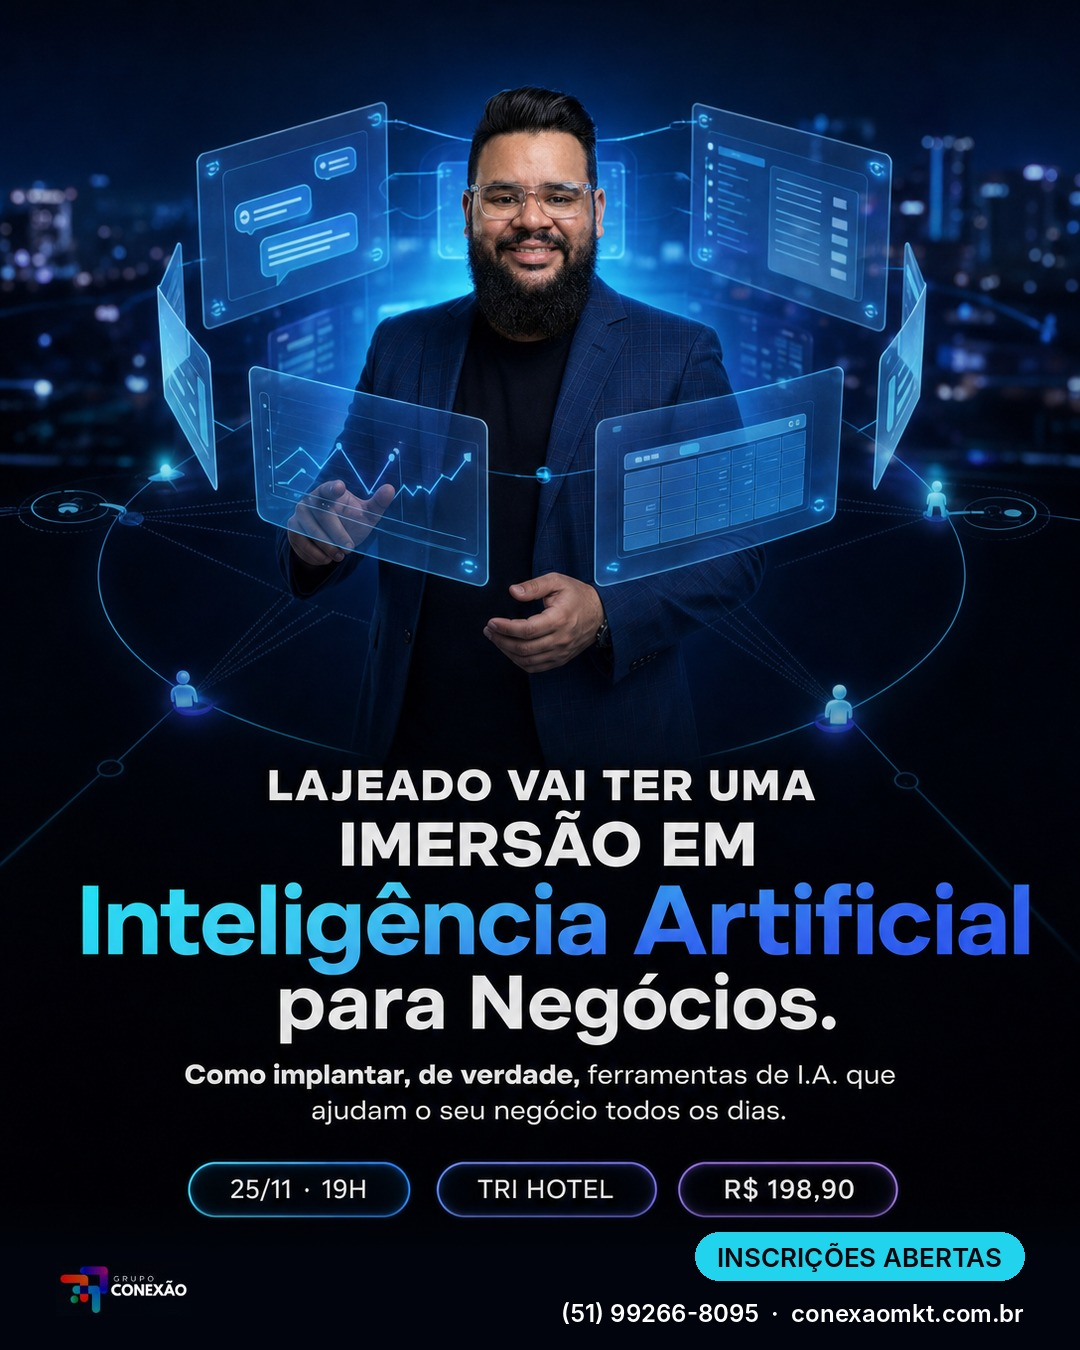
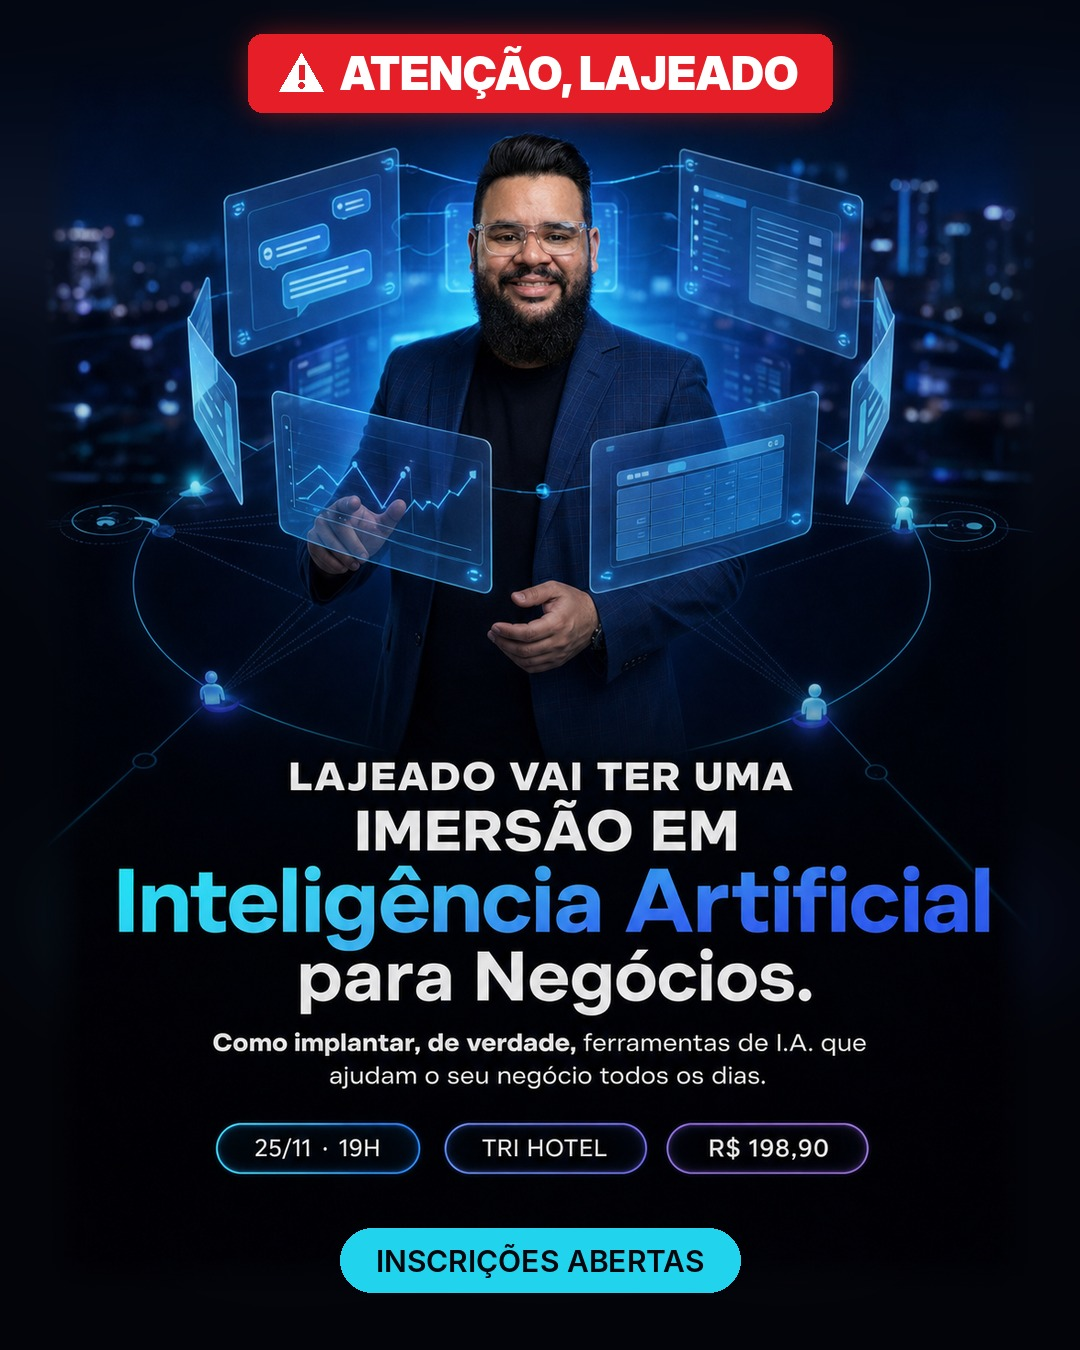
Arte Lajeado: margem de respiro, selo ATENÇÃO, LAJEADO e só INSCRIÇÕES ABERTAS no rodapé; funções respiro e selo_centro
Claude-Session: https://claude.ai/code/session_01VAnyZ4LfARjf93zJngDLkM

diff --git a/scripts/gerar_imagem.py b/scripts/gerar_imagem.py
@@ -129,6 +129,40 @@ def rodape(im, formato, destaque=""):
     return im.convert("RGB")
 
 
+def respiro(im, escala=0.93):
+    """Encolhe a arte e completa as bordas com o próprio fundo desfocado: dá margem de respiro
+    quando o GPT encosta o texto nas laterais."""
+    from PIL import Image, ImageFilter
+    import numpy as np
+    im = im.convert("RGB")
+    W, H = im.size
+    bg = im.resize((W, H)).filter(ImageFilter.GaussianBlur(50))
+    bg = Image.blend(bg, Image.new("RGB", (W, H), (5, 7, 13)), 0.55)
+    w, h = int(W * escala), int(H * escala)
+    peq = im.resize((w, h), Image.LANCZOS)
+    m = np.ones((h, w))
+    f = 40
+    r = np.linspace(0, 1, f)
+    m[:, :f] *= r[None, :]; m[:, -f:] *= r[::-1][None, :]; m[:f, :] *= r[:, None]; m[-f:, :] *= r[::-1][:, None]
+    bg.paste(peq, ((W - w) // 2, (H - h) // 2), Image.fromarray((m * 255).astype("uint8")))
+    return bg
+
+
+def selo_centro(im, texto="INSCRIÇÕES ABERTAS", margem=58):
+    """Rodapé mínimo: só uma pílula ciano centralizada, com margem de respiro da base."""
+    from PIL import ImageDraw, ImageFont
+    im = im.convert("RGB")
+    W, H = im.size
+    d = ImageDraw.Draw(im)
+    f = ImageFont.truetype("campanhas/fontes/Inter-SemiBold.otf", 30)
+    w = d.textlength(texto, font=f)
+    pw, ph = w + 72, 64
+    x, y = (W - pw) / 2, H - margem - ph
+    d.rounded_rectangle([x, y, x + pw, y + ph], radius=ph / 2, fill=(34, 211, 238))
+    d.text(((W - w) / 2, y + 14), texto, font=f, fill=(5, 7, 13))
+    return im
+
+
 def story_de_feed(feed):
     """Story 1080x1920 montado a partir da arte do feed: a arte inteira na área segura
     (14% do topo e 20% da base livres), sobre o próprio fundo desfocado e escurecido."""
